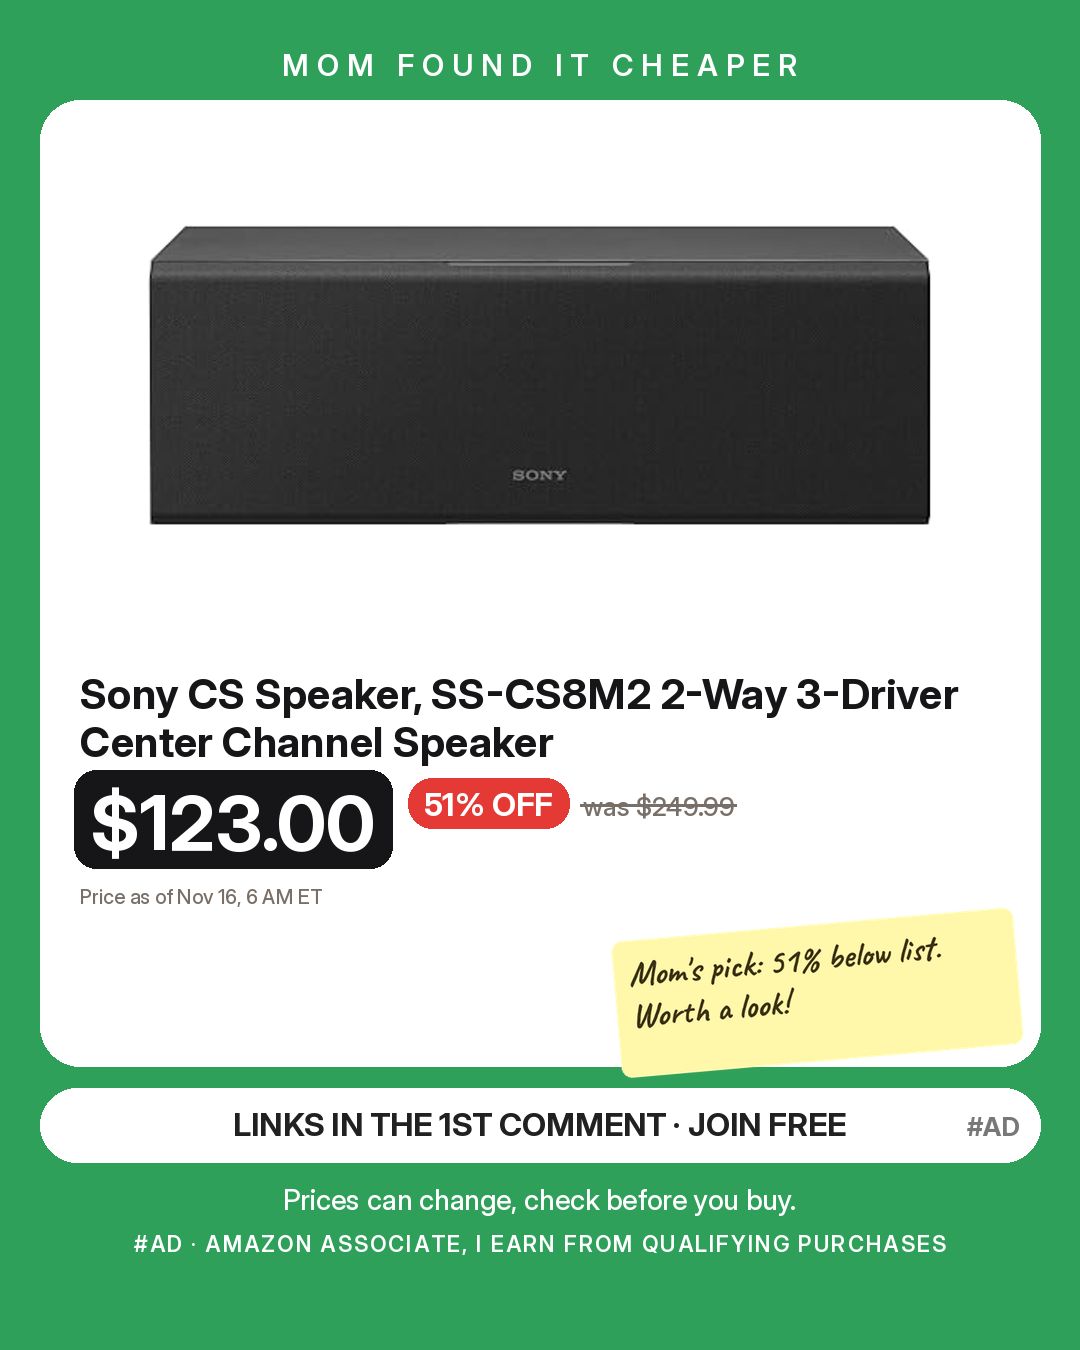
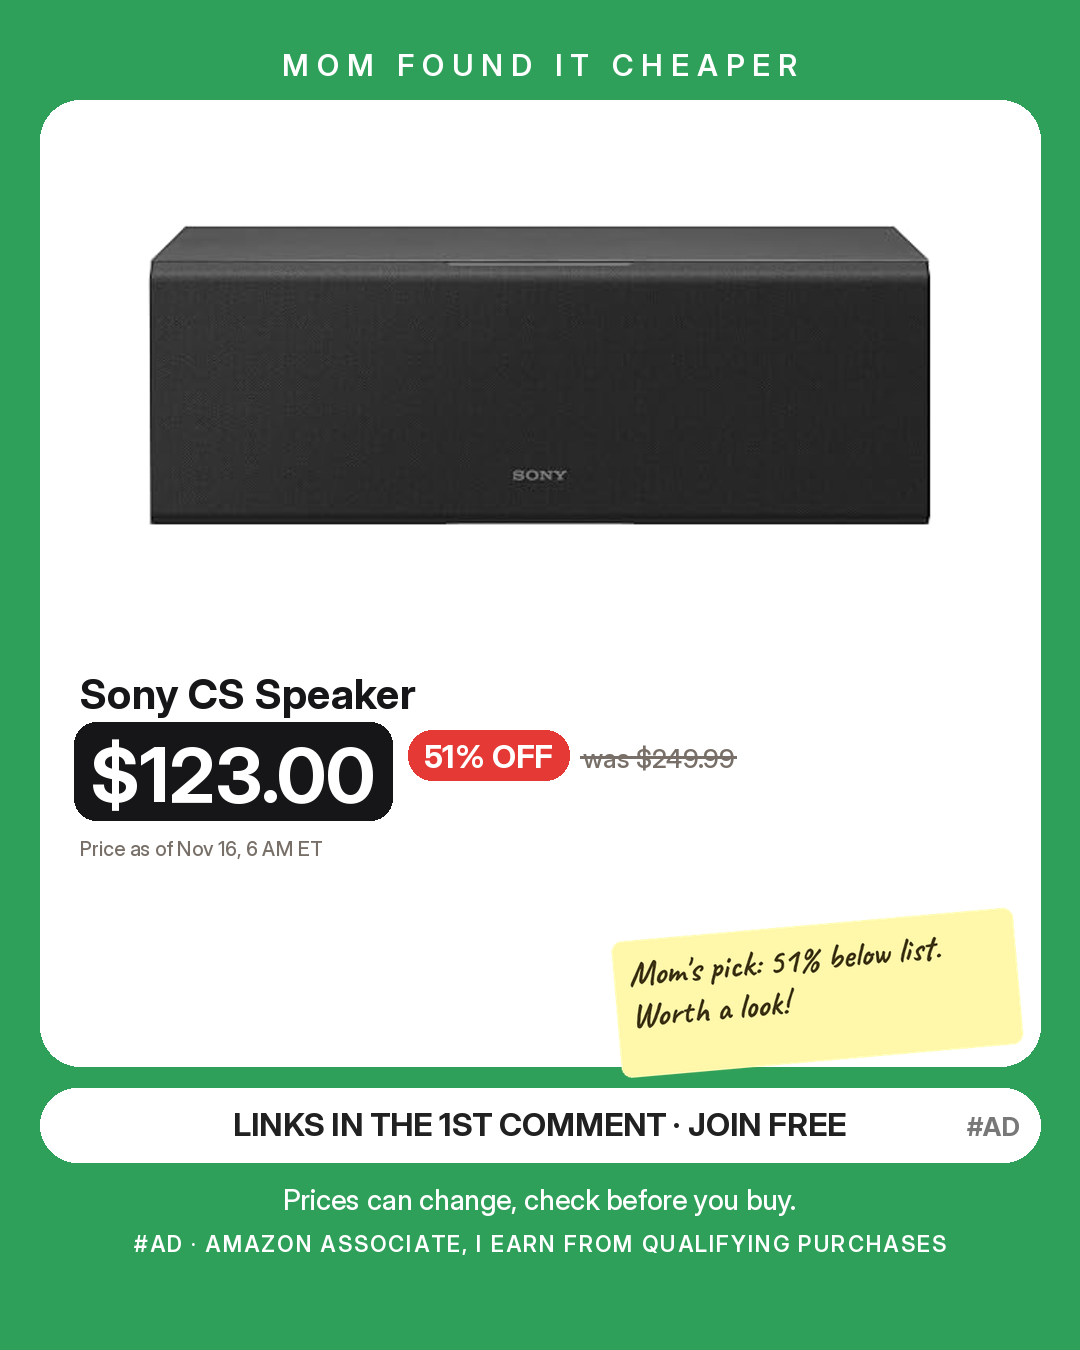
Group posts: drop badge, clean names, skip code-only deals; stricter filters
Claude-Session: https://claude.ai/code/session_013VSLL9D9UfzTwCfefZ99QJ

Changed region(s): [[0.0611, 0.4978, 0.8861, 0.6844]]

diff --git a/make_posts.py b/make_posts.py
@@ -182,7 +182,8 @@ def tidy(title):
         while words and len(words[-1].strip(",.")) <= 2:
             words.pop()
         t = " ".join(words)
-    ws = t.split()
+    t = re.split(r",| \(| - | \| | w/ | with ", t)[0]       # product name only: drop spec tails
+    ws = t.split()[:9]
     while ws and (ws[-1].lower().strip(",.:;") in _DANGLE or ws[-1].startswith("(") and not ws[-1].endswith(")")):
         ws.pop()                                    # never end on 'and', 'with', '(2nd' ...
     return " ".join(ws).strip(" -,:")
@@ -479,7 +480,7 @@ def make_image_v2(path, theme, items, cat="Everything else"):
         draw_tile_v2(img, i, deal, V2_TOP + (i - 1) * (V2_TILE_H + V2_GAP), accent)
     star = best_item(items)
     k = items.index(star)
-    sticker(img, "MOM'S PICK", 200, V2_TOP + k * (V2_TILE_H + V2_GAP) + V2_TILE_H - 22, (255, 193, 7), ink=(40, 40, 40))
+    pass
     d = ImageDraw.Draw(img)
     cta_pill(img, 1262)
     img.save(path)
@@ -584,7 +585,7 @@ def make_image_hero(path, theme, items, cat="Everything else"):
     y = _title(d, star, 520, 322, PW - 40 - 30 - 520, 42, 3, 30)
     y = _price_row(img, star, 520, y + 8, 84, PW - 40 - 30 - 520)
     _chips(img, star, 520, y + 6, 480, 28)
-    sticker(img, "MOM'S PICK", 250, 722, (255, 193, 7), ink=(40, 40, 40))
+    pass
     for k, deal in enumerate(rest):
         x0 = 40 + k * 510
         d = ImageDraw.Draw(img)
@@ -623,7 +624,7 @@ def make_image_trio(path, theme, items, cat="Everything else"):
             y += 36
         _chips(img, deal, x0 + 18, y + 6, cw - 36, 24)
         if deal is star:
-            sticker(img, "MOM'S PICK", x0 + cw - 90, 330, (255, 193, 7), ink=(40, 40, 40), angle=10)
+            pass
     d = ImageDraw.Draw(img)
     d.rounded_rectangle([40, 1110, PW - 40, 1250], 34, fill=accent)
     ink = CHAR if sum(accent) > 480 else (255, 255, 255)
@@ -731,10 +732,10 @@ QUESTIONS = ["Which one is going in your cart?", "Which would you grab first?", 
 
 def texts(theme, items):
     names = [tidy(short_title(no_price_title(i["title"]))) for i in items]
-    names = [" ".join(re.sub(r"^\[[^\]]*\]\s*", "", n).split(",")[0].split()[:5]).rstrip(".,;:- ") for n in names]
+    names = [re.sub(r"^\[[^\]]*\]\s*", "", n).rstrip(".,;:- ") for n in names]
     st = story(items)
     _b = best_item(items); _off = pct_off(_b)
-    _bn = " ".join(tidy(short_title(no_price_title(_b["title"]))).split(",")[0].split()[:4])
+    _bn = tidy(short_title(no_price_title(_b["title"])))
     lead = f"🔥 {_off}% OFF! {_bn}\n" if _off >= 15 else ""      # % off up front: what the biggest deal groups open with
     caption = (lead + f"✨ {theme}: {names[0]}, {names[1]} and {names[2]}\n"
                + (f"{st}\n" if st else "")
@@ -767,6 +768,8 @@ def main():
             mm = META.get(d.get("asin", "")) or {}
             if mm.get("rating") and mm["rating"] < 3.8:
                 return False
+            if rv < 100 and mm.get("list") and pv and pv < 0.45 * (price_value(str(mm["list"])) or 0):
+                return False                      # big claimed discount on few reviews = suspicious list price
             nw = price_value(str(mm.get("now") or "")) if mm.get("now") else 0
             if nw and pv and pv < nw * 0.7:
                 return False
@@ -832,7 +835,7 @@ def main():
     # one extra single-product "Mom's pick" post: best-reviewed item with a photo
     used = {i["id"] for _, its, _t in groups for i in its}
     pool = [d for d in deals if d["id"] not in used and pct_off(d) >= 10 and is_amazon(d) and ((META.get(d.get("asin", "")) or {}).get("reviews") or 0) >= 100 and find_photo(d) and not qa_check(d)[0] 
-            and price_value(d.get("price", "")) and brand_ok(d) and not any(w in d["title"].lower() for w in SKIP_WORDS)]
+            and price_value(d.get("price", "")) and brand_ok(d) and not clean_code(d) and not any(w in d["title"].lower() for w in SKIP_WORDS)]
     if pool:
         pool.sort(key=lambda x: x["id"])
         star = pool[datetime.now(timezone.utc).toordinal() % len(pool)]   # rotates daily
@@ -852,7 +855,7 @@ def main():
     # engagement post: THIS or THAT from two different, well-reviewed products
     used2 = used | ({star["id"]} if pool else set())
     cands = [d for d in deals if d["id"] not in used2 and pct_off(d) >= 10 and is_amazon(d) and d.get("asin") not in SEEN_ASIN
-             and find_photo(d) and not qa_check(d)[0] and price_value(d.get("price", "")) and brand_ok(d) and _who(d) != "m"
+             and find_photo(d) and not qa_check(d)[0] and price_value(d.get("price", "")) and brand_ok(d) and not clean_code(d) and _who(d) != "m"
              and not any(w in d["title"].lower() for w in SKIP_WORDS)]
     cands.sort(key=score, reverse=True)
     pair = None
@@ -868,7 +871,7 @@ def main():
         a, b = pair
         make_image_thisorthat(OUT / "post_thisorthat.png", a, b, ROT[(datetime.now(timezone.utc).toordinal() + 2) % len(ROT)])
         na, nb = (" ".join(tidy(short_title(no_price_title(z["title"]))).split(",")[0].split()[:5]) for z in pair)
-        cap = (f"THIS or THAT? 🛒\nA: {na}\nB: {nb}\nComment A or B and tell us why. We read every one!\n"
+        cap = (f"THIS or THAT? 🛒\nA: {na}\nB: {nb}\nWhich would you pick? Tell us why - we read every one!\n"
                f"(AD)(Commission earned) As an Amazon Associate I earn from qualifying purchases.\n\n{HASHTAG_SET}")
         cm = f"Shop here (prices and codes can change):\nA: {link_for(a)}\nB: {link_for(b)}\nAs an Amazon Associate I earn from qualifying purchases."
         (OUT / "post_thisorthat.txt").write_text(f"CAPTION:\n{cap}\n\nFIRST COMMENT (paste after posting):\n{cm}\n")
@@ -889,7 +892,7 @@ def main():
         if qn >= QUICK_MAX:
             break
         k = product_key(d)
-        if k in seen_q or not brand_ok(d) or _who(d) == "m":
+        if k in seen_q or not brand_ok(d) or _who(d) == "m" or clean_code(d):
             continue
         seen_q.add(k)
         BRANDS.add(brand(d))

diff --git a/POST_QA.md b/POST_QA.md
@@ -1,10 +1,10 @@
 # Post QA
 
-## post_1 (Under $15 finds): ok
-## post_2 (Under $25 finds): ok
-## post_3 (Top under $60): ok
+## post_1 (Top under $30): ok
 ## post_single (Mom's pick): ok
 ## post_thisorthat (THIS or THAT): ok
 ## post_q1 (Quick deal: 51% OFF): ok
-## post_q2 (Quick deal: 38% OFF): ok
-## post_q3 (Quick deal: 44% OFF): ok
+## post_q2 (Quick deal: 40% OFF): ok
+## post_q3 (Quick deal: 38% OFF): ok
+## post_q4 (Quick deal: 56% OFF): ok
+## post_q5 (Quick deal: 44% OFF): ok
